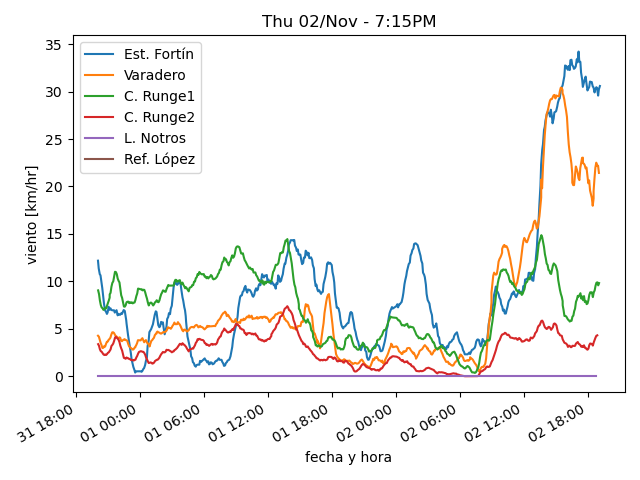
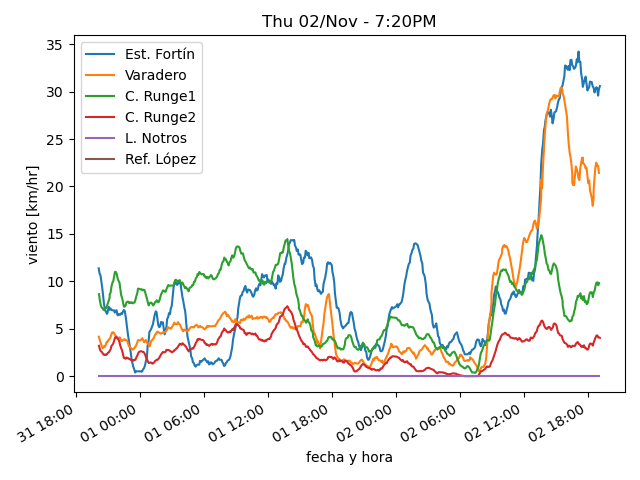
actualiza datos

diff --git a/estaciones/estacion4.html b/estaciones/estacion4.html
@@ -18,22 +18,22 @@
     </tr>
     <tr>
      <td class="stats_data">
-      6:54PM
+      7:09PM
      </td>
     </tr>
     <tr>
      <td class="stats_data">
-      10.5⁰C
+      9.2⁰C
      </td>
     </tr>
     <tr>
      <td class="stats_data">
-      2.5⁰C
+      1.5⁰C
      </td>
     </tr>
     <tr>
      <td class="stats_data">
-      57.6%
+      58.7%
      </td>
     </tr>
     <tr>
@@ -43,7 +43,7 @@
     </tr>
     <tr>
      <td class="stats_data">
-      2.4/4.2 km/hr W
+      2.1/3.3 km/hr SW
      </td>
     </tr>
     <tr>
@@ -58,7 +58,7 @@
     </tr>
     <tr>
      <td class="stats_data">
-      81.9 W/m²
+      49.6 W/m²
      </td>
     </tr>
    </tbody>

diff --git a/estaciones/estacion5.html b/estaciones/estacion5.html
@@ -18,12 +18,12 @@
     </tr>
     <tr>
      <td class="stats_data">
-      6:50PM
+      7:05PM
      </td>
     </tr>
     <tr>
      <td class="stats_data">
-      9.3⁰C
+      9.1⁰C
      </td>
     </tr>
     <tr>
@@ -33,12 +33,12 @@
     </tr>
     <tr>
      <td class="stats_data">
-      67.0%
+      68.0%
      </td>
     </tr>
     <tr>
      <td class="stats_data">
-      1020.96hPa
+      1021.2hPa
      </td>
     </tr>
     <tr>
